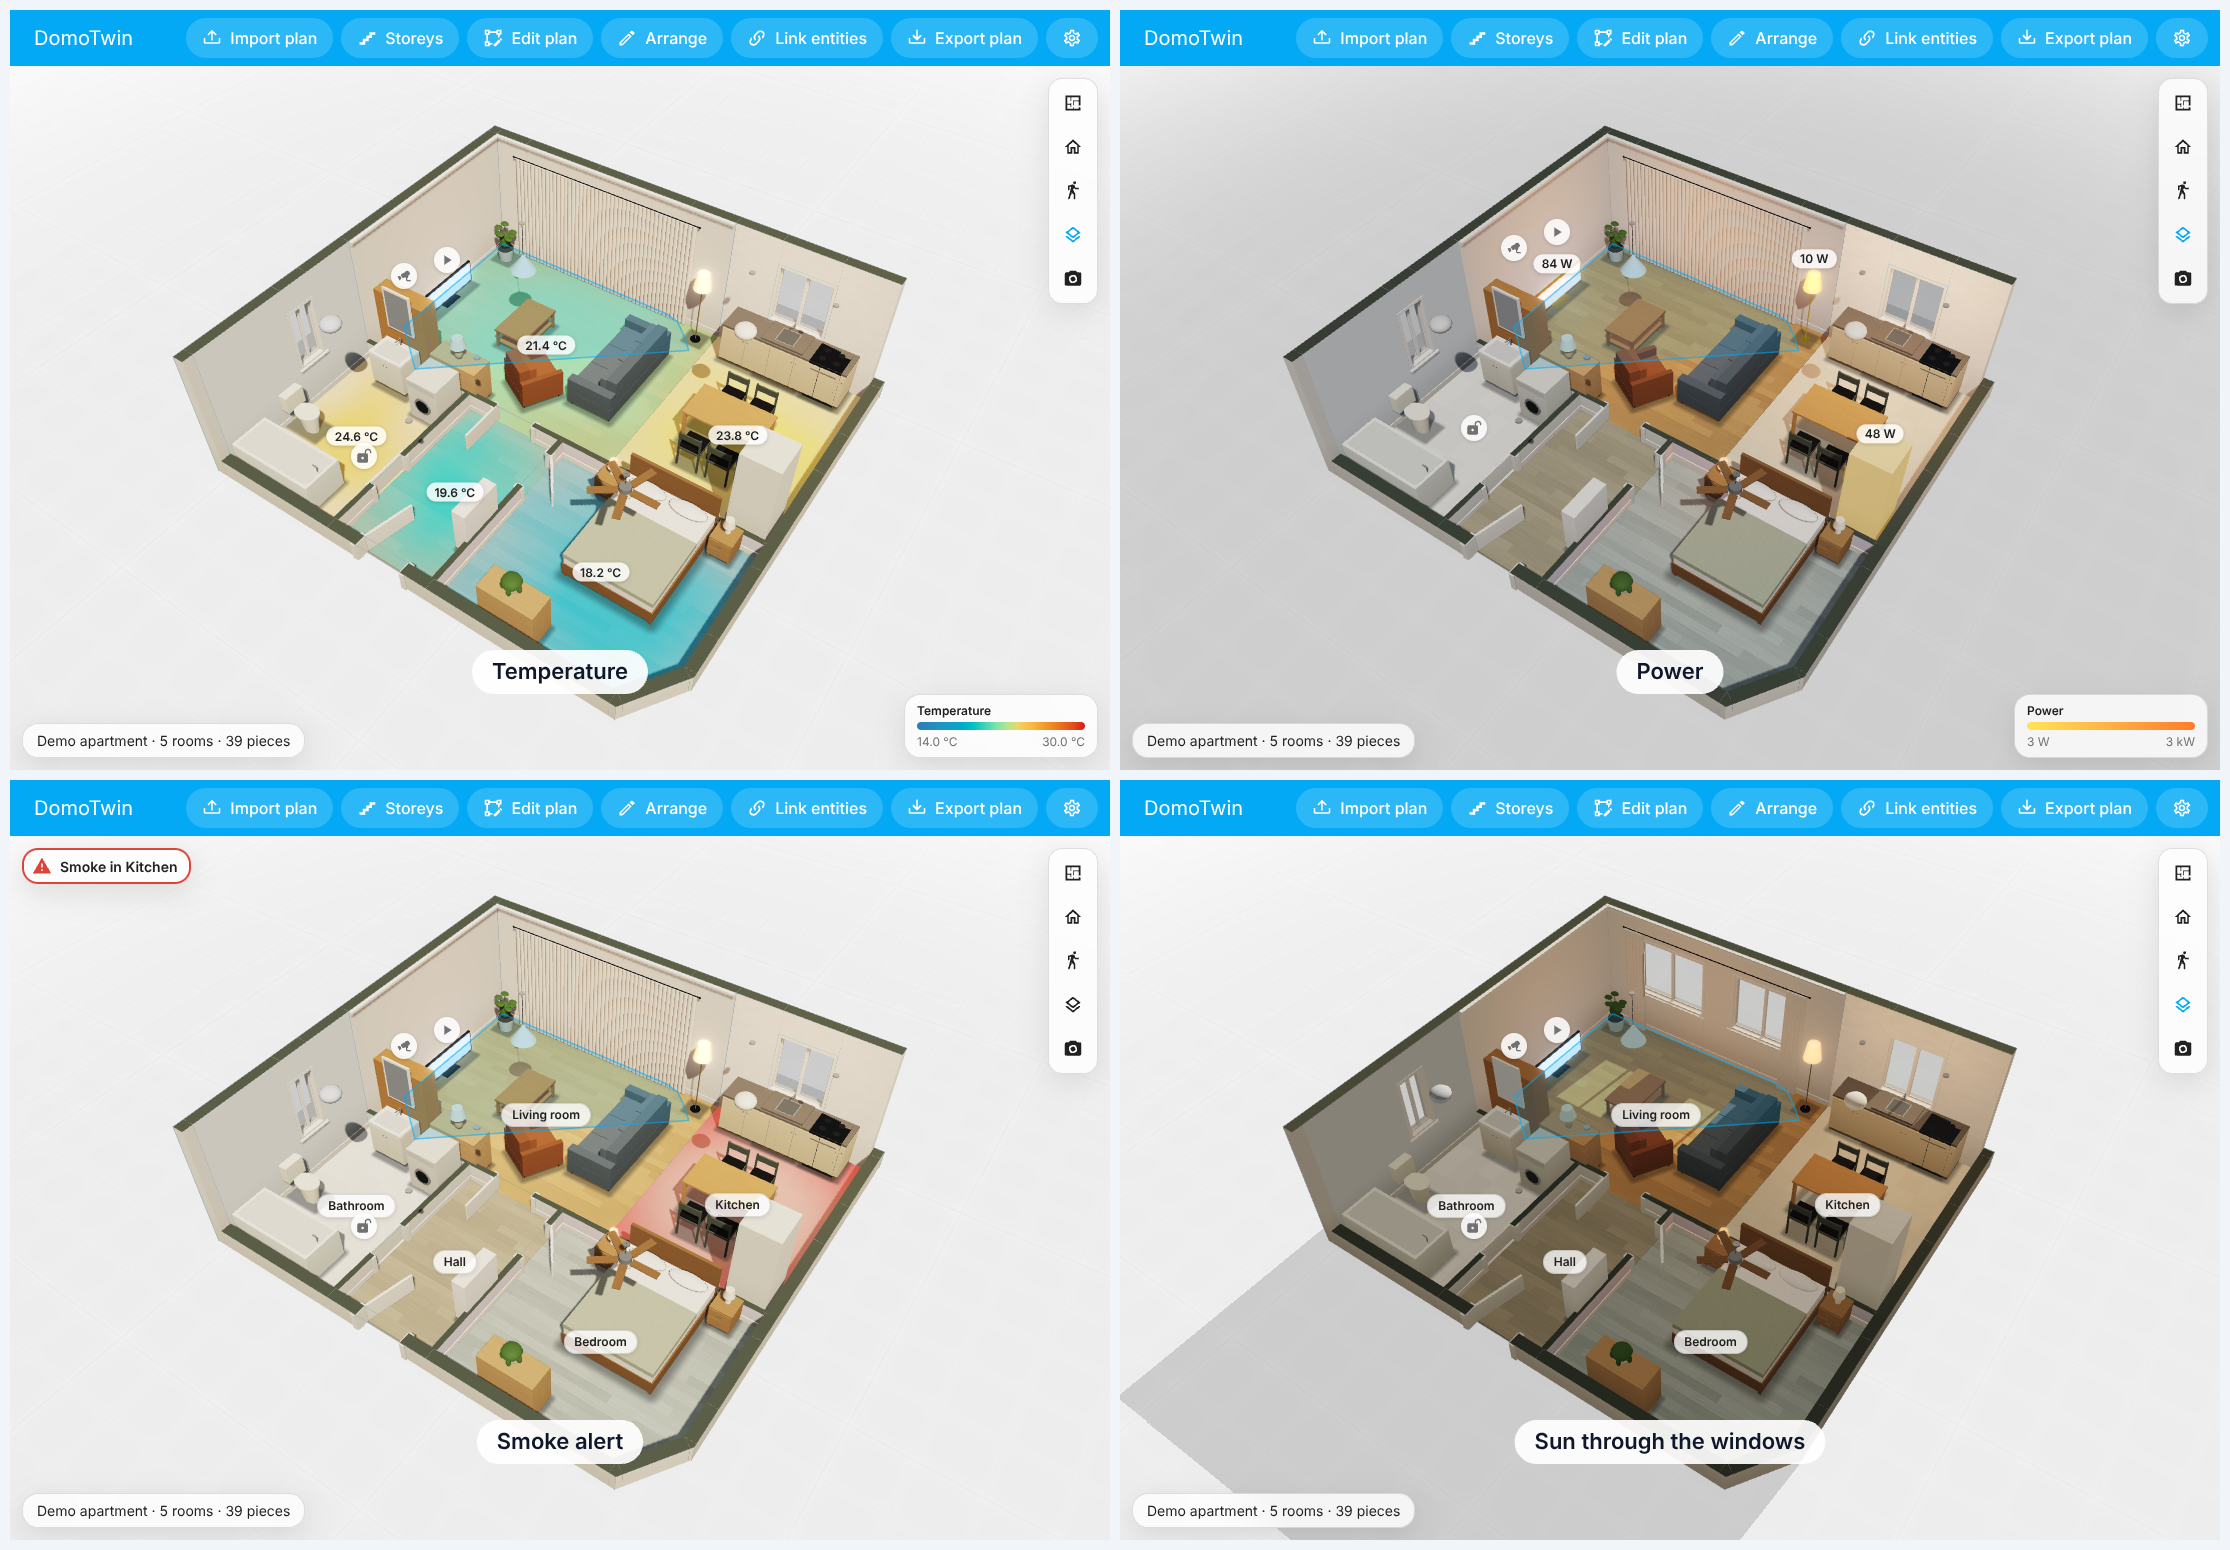
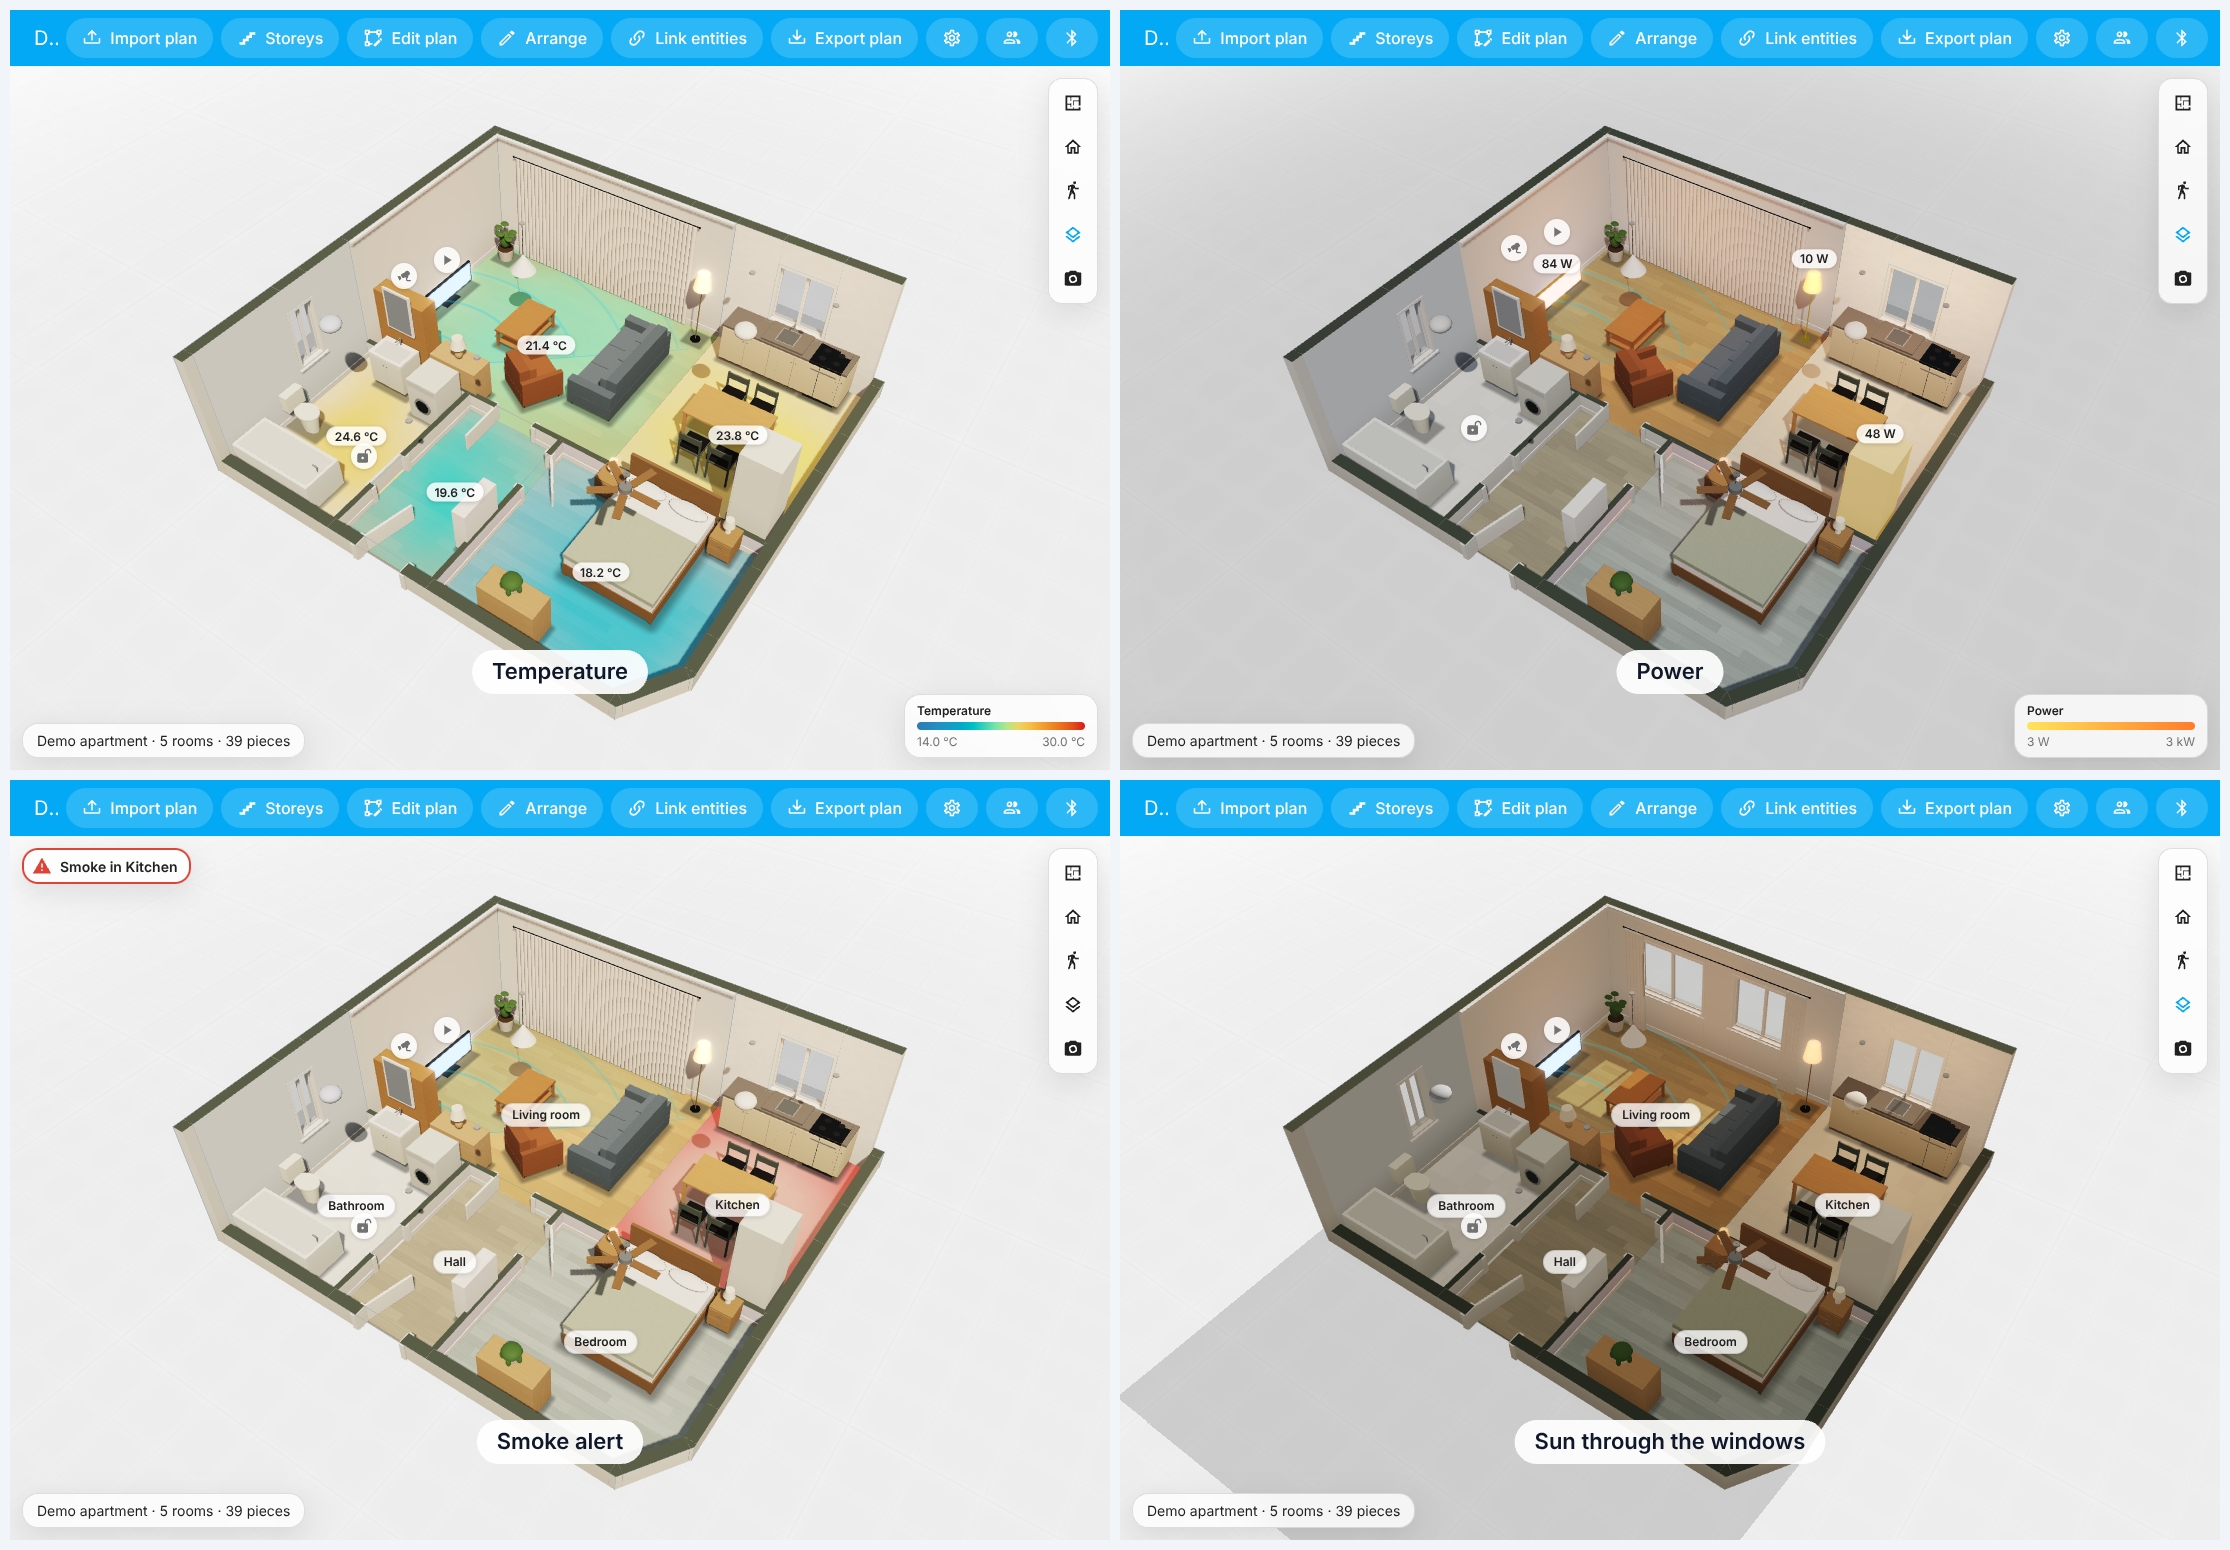
docs: what cameras see on the floor, d-038 and the screenshots (m5b)
- DECISIONS: D-038, the camera views drawn by the engine; a note under D-024.
- ROADMAP: M5b done, with a picture of a view faint and tapped.
- bindings, storeys, README and README.fr: the fan on the floor, faint until tapped.
- PERFORMANCE: M5b, +3.1 kB on the first load, the fan's pass in the noise of the software GPU.
- Screenshots: the camera view (new) and the ones that showed the old shape over the room.

Claude-Session: https://claude.ai/code/session_01MdonJq9hYPn9yZJEoWBmnq

diff --git a/docs/DECISIONS.md b/docs/DECISIONS.md
@@ -458,7 +458,8 @@ Decided while the maintainer was away (M5); open to review.
     corner included. It does so when the plan or the bindings change and only projects it on the
     floor when the view moves (`cameraViews`); the view draws it as an SVG polygon, blue, red while
     recording, grey and dashed when unavailable. No geometry is added to the scene, so nothing is
-    rebuilt when a camera's settings change.
+    rebuilt when a camera's settings change. *Since M5b, the engine draws it on the floor, behind
+    the furniture (D-038).*
   - **Kinds and names from the engine.** The badges take each piece's kind (for appliances) and
     name (for their labels) from the plan the engine shows, the edit overlay applied
     (`elementList`), so that pieces added in edit mode get them too.
@@ -1099,3 +1100,36 @@ Asked by the maintainer, after M8b.
 - **Consequences.** 0.1.0 ships the camera views as flat shapes over the picture (fixed in M5b) and
   without the install test on a clean Home Assistant and the measurements on real devices, which
   M13 does before the submission. The changelog of 0.1.0 lists every milestone so far.
+
+## D-038 · What cameras see, drawn by the engine on the floor
+
+Raised by the maintainer, twice (M5b).
+
+- **Context.** D-024 drew a camera's view as an SVG polygon over the picture: flat on the screen,
+  over the sofa and the people, its outline along the walls of the room. It was taken for the
+  room's outline, or its highlight.
+- **Decision.**
+  - **In the scene.** The engine draws the views in the frame, as a fan of triangles from the
+    camera to the points D-024 works out, 3 cm over the floor of its storey (over the rugs) and
+    moved with it (D-028). It is drawn after what is opaque and before the cartoon's ink (D-036)
+    and glass, with the depth tested and not written: the furniture and the people standing on
+    it hide it, the ink outlines them over it, and it blends with the floor. Its mesh is rebuilt only when the plan, the bindings, a camera's state or the
+    focus change; the frame costs one draw call for all the cameras.
+  - **A look of its own.** The fan's colour fades with the distance from the camera; a ring every
+    metre from the camera and its two side rays are drawn as lines about a pixel and a half wide
+    (from the screen-space derivatives, so they stay thin at any zoom). The side along the walls
+    is never drawn: it was what read as the room. Blue (the look's accent), red while recording,
+    grey when unavailable or unknown to Home Assistant, as its badge says. The tones are the
+    picture's, like the lamps' light, not the dashboard theme's; the badges keep the theme's.
+  - **Faint until tapped.** A tap on a camera's piece or badge draws its view whole for 15
+    seconds; the others stay faint. A tap anywhere else (a piece, a room, the floor) makes them all
+    faint again. The engine times the 15 seconds on its frames' clock; the view only asks for a
+    frame then.
+  - **Where it is not drawn.** While walking and on the way down to eye level or back up (it
+    would lie under the feet, D-029), in the storeys' pictures (D-028), and while editing or
+    linking; the card's `cameras: false` and the layer menu leave it out.
+  - **For tests and tools.** The engine's stats list the views drawn (`cameraViews`: the element,
+    the tone, whether tapped); `cameraViews()` still gives their points on the screen.
+- **Consequences.** The view no longer needs SVG nodes or a projection on every camera move. A
+  view is still not cut by the furniture (D-024): it is hidden by it, not stopped. The rings
+  measure from the camera's spot on the floor, not from its height.

diff --git a/docs/ROADMAP.md b/docs/ROADMAP.md
@@ -28,7 +28,7 @@ Legend: ✅ done · 🚧 in progress · ⏳ planned · ❓ needs a decision from
 | M9f       | Bluetooth locating, without Bermuda or ESPresense          | ✅     |
 | M8b       | Two more looks: cartoon and clay                           | ✅     |
 | 0.1.0     | First release: all of the above, `domotwin.zip` for HACS   | ✅     |
-| M5b       | What cameras see, drawn on the floor behind the furniture  | ⏳     |
+| M5b       | What cameras see, drawn on the floor behind the furniture  | ✅     |
 | M9g       | Private rooms: locked, or kept for some people             | ⏳     |
 | M11       | Imports: Sweet Home 3D, DXF, room scans                    | ⏳     |
 | M12       | Polish: design, fonts, accessibility, voice, README        | ⏳     |
@@ -634,14 +634,22 @@ Moved forward by the maintainer, right after M8b (D-037): every milestone above,
 
 Raised by the maintainer, twice: the view of a camera (D-024) was a flat shape laid over the
 picture, over the sofa and the people, and was taken for the room's outline. The engine draws it
-on the floor of its room instead:
+on the floor of its room instead (`DECISIONS.md`, D-038):
 
-- hidden by the furniture and the people standing on it;
-- a fan from the camera's badge, fading out with distance, in a look of its own (not a room's
-  highlight);
-- faint until the camera is tapped, then whole.
+- ✅ **On the floor**, hidden by the furniture and the people standing on it; moved with its
+  storey; not drawn while walking, nor in the storeys' pictures.
+- ✅ **A look of its own**, not a room's highlight: a fan from the camera, fading out with
+  distance, with a ring every metre from the camera and its two side rays as thin lines; never a
+  line along the walls. Blue (the look's accent), red while recording, grey when unavailable.
+- ✅ **Faint until the camera is tapped** (its piece or its badge), then whole for 15 seconds; a
+  tap anywhere else makes it faint again.
+- ✅ The card's `cameras: false` and the layer menu still leave the views out; editing and linking
+  too.
+- ✅ Tests: the fan's mesh and its states (wasm, no GL error, faint, whole, every tone, walking);
+  the views drawn, faint and whole, their tones, hidden, and narrower when the angle is changed
+  (Playwright, from the picture's pixels).
 
-The card's `cameras: false` still leaves the views out.
+![The demo apartment in neon: a camera's view, faint, then whole once the camera is tapped](figures/screenshot-camera-view.png)
 
 ## M9g, private rooms
 

diff --git a/README.fr.md b/README.fr.md
@@ -49,7 +49,8 @@ Local, rapide, Rust + WebAssembly.</p>
   soleil qui entre par vos fenêtres, et ce que consomme chaque appareil.
 - **Appareils.** Des badges sur vos appareils (l’état d’une serrure, une caméra qui enregistre, ce
   qui est en lecture, une batterie faible, le lave-linge en marche), et ce que voit chaque caméra,
-  dessiné au sol de sa pièce ; touchez pour l’image en direct.
+  dessiné au sol de sa pièce, derrière les meubles, discret tant que vous ne touchez pas la
+  caméra ; touchez pour l’image en direct.
 - **Carte du réseau.** Votre maillage Zigbee dessiné sur le logement : chaque appareil sur son
   meuble, chaque lien en arc coloré selon sa qualité, une lumière qui court vers le coordinateur,
   et les pièces suspendues à un lien faible nommées, avec « un routeur ici aiderait ». Touchez un
@@ -134,7 +135,7 @@ Local, rapide, Rust + WebAssembly.</p>
 </p>
 
 <p align="center">
-  <img src="https://raw.githubusercontent.com/arthur-leguennec/ha-domotwin/main/docs/figures/screenshot-devices.png" alt="Les appareils : des badges sur la porte d’entrée, la télévision, la caméra et le lave-linge, et le cône de ce que voit la caméra du séjour sur le plan 2D" width="100%">
+  <img src="https://raw.githubusercontent.com/arthur-leguennec/ha-domotwin/main/docs/figures/screenshot-devices.png" alt="Les appareils : des badges sur la porte d’entrée, la télévision, la caméra et le lave-linge, et ce que voit la caméra du séjour, un éventail avec un anneau par mètre au sol du plan 2D" width="100%">
 </p>
 
 <p align="center">

diff --git a/README.md b/README.md
@@ -45,7 +45,7 @@ Local, fast, Rust + WebAssembly.</p>
   windows, and what each appliance draws.
 - **Devices.** Badges over your devices (a lock's state, a camera recording, what plays, a battery
   running low, the washing machine running), and what each camera sees drawn on the floor of its
-  room; tap for the live picture.
+  room, behind the furniture, faint until you tap the camera; tap for the live picture.
 - **Network map.** Your Zigbee mesh drawn over the home: each device at its piece, each link an arc
   coloured by its quality, light running towards the coordinator, and the rooms that hang on a weak
   link named, with *a router here would help*. Tap a device or a link for the details, rescan,
@@ -120,7 +120,7 @@ Local, fast, Rust + WebAssembly.</p>
 </p>
 
 <p align="center">
-  <img src="https://raw.githubusercontent.com/arthur-leguennec/ha-domotwin/main/docs/figures/screenshot-devices.png" alt="Devices: badges over the entrance door, the TV, the camera and the washing machine, and the cone of what the living room's camera sees on the 2D plan" width="100%">
+  <img src="https://raw.githubusercontent.com/arthur-leguennec/ha-domotwin/main/docs/figures/screenshot-devices.png" alt="Devices: badges over the entrance door, the TV, the camera and the washing machine, and what the living room's camera sees, a fan with a ring every metre on the floor of the 2D plan" width="100%">
 </p>
 
 <p align="center">

diff --git a/docs/PERFORMANCE.md b/docs/PERFORMANCE.md
@@ -552,3 +552,24 @@ is) and 5 % more on
 Balanced, where it is drawn offscreen for its ink alone while day goes straight to the screen;
 there it makes no bloom textures. Clay costs what day costs: its matte shading changes uniforms,
 not passes. Eco draws both straight to the screen, the cartoon without the ink from the depth.
+
+### M5b (what cameras see, on the floor)
+
+Bundle: the first load is **462.1 kB gzipped** of 1 200 kB (+3.1 kB). The engine grew by 3.2 kB
+(`domotwin_web_bg.<hash>.wasm`: 850.8 kB raw, 368.6 kB gzipped): the fan's mesh, its shaders and
+its pass. The JavaScript lost 0.1 kB: the SVG layer is gone.
+
+Frame time at 1280 × 720, the demo apartment in the evening, High, *reduce motion* on. The CPU
+time of a frame is unchanged (0.3 ms median, `e2e/perf.spec.ts`). The software GPU, the median of
+nine frames each read back, with the views hidden, faint and whole:
+
+| Look | Hidden | Faint | Whole |
+| --- | ---: | ---: | ---: |
+| Day, 3D | 260 ms | 250 ms | 248 ms |
+| Day, 2D plan | 259 ms | 248 ms | 236 ms |
+| Neon, 3D | 232 ms | 249 ms | 227 ms |
+| Neon, 2D plan | 216 ms | 236 ms | 225 ms |
+
+The fan's pass is lost in the noise of the measurement (about ±8 %): one draw call of a few dozen
+triangles over a part of the floor. Its mesh is made again only when the views change (a camera's
+state, a tap, the plan or the links), in 0.02 to 0.08 ms; other states do not touch it.

diff --git a/docs/bindings.md b/docs/bindings.md
@@ -126,9 +126,12 @@ on one element, the most urgent first.
 
 **What a camera sees.** A piece linked to a camera shows what it sees on the floor: from the
 centre of the piece towards its front (the `y + h` side, the way it faces), `fov` wide and `range`
-long, in the piece's room, its walls hiding what is behind them. It is blue, red while recording, grey and dashed when the camera is
-unavailable. The camera on the bookcase of the demo apartment looks into the living room. A tap
-opens Home Assistant's more-info dialog, with the live picture. The card's `badges: false` and
+long, in the piece's room, its walls hiding what is behind them. It is a fan on the floor, behind
+the furniture and the people, fading out with distance, with a ring every metre and its two side
+rays drawn as lines. It is blue, red while recording, grey when the camera is unavailable; faint
+until the camera is tapped, then whole for 15 seconds. It is not drawn while walking. The
+camera on the bookcase of the demo apartment looks into the living room. A tap opens Home
+Assistant's more-info dialog, with the live picture. The card's `badges: false` and
 `cameras: false` turn them off; so does the layer menu.
 
 ## Tap and long press

diff --git a/docs/storeys.md b/docs/storeys.md
@@ -39,8 +39,8 @@ and take the roof off (and put it back); both are animated.
   highest on top (in views wider than 560 pixels). A tap on one shows that storey alone.
 - **Everything is live**, on every storey: lamps light their storey, a tap on any lamp toggles it,
   a long press opens its controls, the walls facing the camera are lowered storey by storey, and
-  the layers (heatmap, alerts, presence, power), the badges and the cameras' cones show on every
-  storey.
+  the layers (heatmap, alerts, presence, power), the badges and what the cameras see show on
+  every storey.
 - **The roof** is a gable roof over the top storey's walls, its ridge along the longer side. It is
   of glass in the neon and blueprint looks, tiled in day. A tap goes through it to what is under it.
 - **On the 2D plan**, the storeys lie side by side, the ground floor on the left (down the view in
